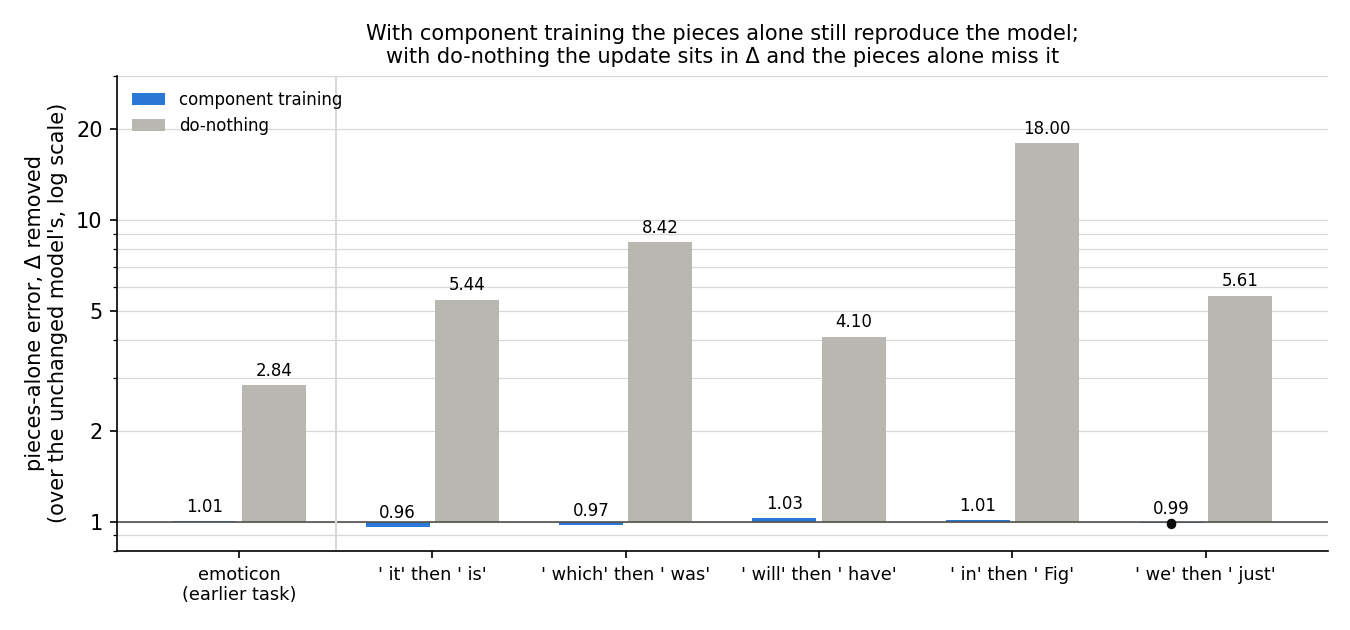
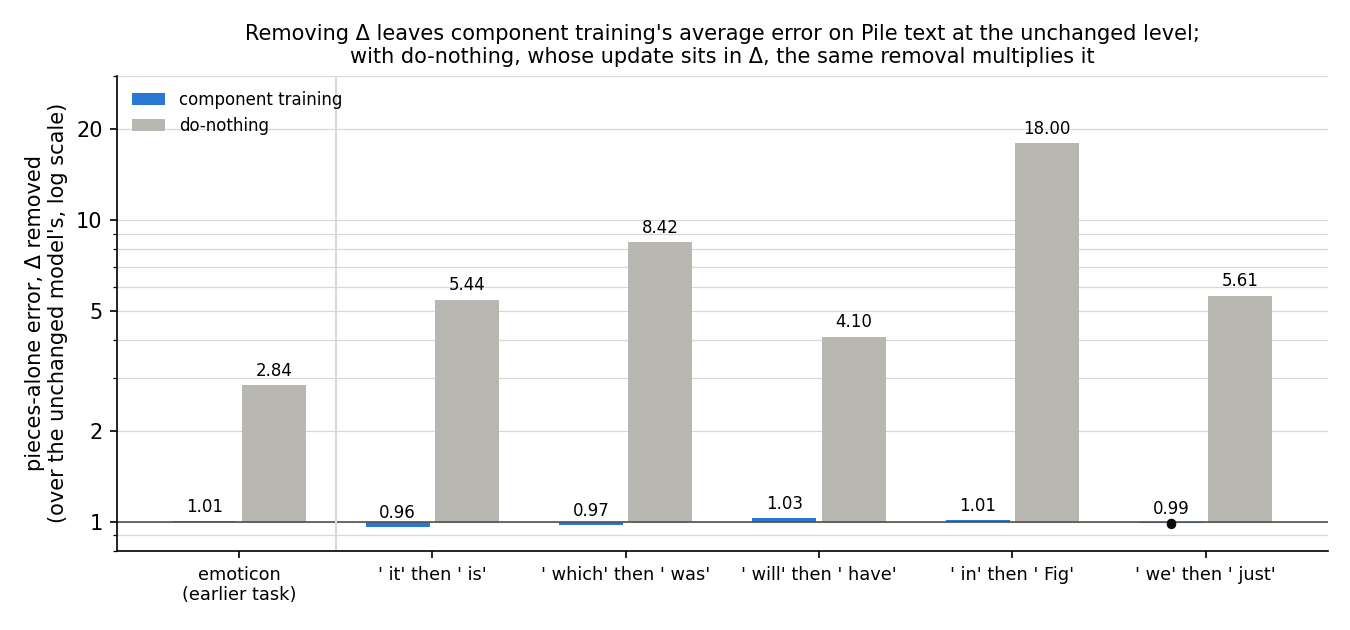
E11 card: final-read fixes

Changed region(s): [[0.1867, 0.0302, 0.9022, 0.1206]]

diff --git a/docs/research_log/parts/experiments/e11.html b/docs/research_log/parts/experiments/e11.html
@@ -1,16 +1,16 @@
 <article class="exp missed" id="e11">
 <div class="top"><span class="id">E11</span><span class="chip refuted">missed</span><h3>Do component training's pieces stay faithful on five more next-word tasks, or only on emoticon?</h3><span class="when">2026-10-19, emoticon rerun 2026-10-20 · RunPod L40S; MATS cluster L40 · <code>experiments/reading_a_coverage</code></span></div>
-<p class="one"><strong>The question.</strong> The pass criterion (Q1) asks for a map that keeps the decomposition as faithful to the updated model as it was to the original, without parking the update in the residual Δ. Component training had passed VPD's adversarial check on emoticon (in an earlier split test, E2) and on one common-word task, " will" then " be" (E5). This run asks whether that pass is general, on the five tasks of E5's task ladder, a set of next-word tasks graded by how likely the target already is, that had never been scored on it.</p>
-<p class="one"><strong>What we did.</strong> Each task teaches the 67M model to raise one next word after a trigger word, such as " is" after " it"; the model already gives the target some probability. <em>Component training</em> trains the pieces' own vectors on the task for 10 Adam steps, with Γ (which switches pieces on) and Δ frozen. <em>Do-nothing</em> runs the ordinary fine-tune for 10 steps and puts its whole weight change in Δ. An adversary searches for the mask over the pieces that does the most damage on ordinary Pile text. The <em>adversarial ratio</em> is that damage over the same damage for the unchanged decomposition, so 1 means as faithful as before. Above 1.5 counts as a fail, the line set in E2. Below about 1.14 is noise: within three times the unchanged model's own run-to-run spread in this job (its <em>floor</em>).</p>
-<p class="one"><strong>What we found.</strong> Component training fails the check on three of the five tasks and sits at the line on a fourth (first figure). The report counts do-nothing as more robust under the adversary on four of the five, but only two of those gaps, on " it" then " is" and " in" then " Fig", are larger than the noise. What component training does buy is that the pieces alone, without Δ, still reproduce the model, where with do-nothing they miss by 4 to 18 times the original error on the new tasks (second figure). The tasks with the largest adversarial ratios mostly had the largest change on words other than the target (third figure).</p>
-<p class="one"><strong>What it means.</strong> "Passes about as well" is not a general property of 10-step Adam component training: counting emoticon and " will" then " be", 3 of 7 tasks hold, 1 sits at the line and 3 fail, and the report reads the earlier passes as the favourable cases. The caveat: each task but one ran at one seed, and the unchanged model's own adversary spread reached 21% in one job. Ratios near 1.5 are therefore undecided. The next design question was to compare at matched off-target change instead of matched steps; a later run at more training steps (E21) found that these verdicts are step-10 readings.</p>
+<p class="one"><strong>The question.</strong> The project's pass criterion (sub-question Q1 of the log) asks for a map that keeps the decomposition as faithful to the updated model as it was to the original, without parking the update in the residual Δ. Component training had passed VPD's adversarial check on emoticon (in experiment E2, an earlier test of ways to place an update) and on one common-word task, " will" then " be" (in experiment E5, the task ladder: next-word tasks graded by how likely the target already is). This run asks whether that pass is general, on the five ladder tasks never scored on this check.</p>
+<p class="one"><strong>What we did.</strong> Each task teaches the 67M model to raise one next word after a trigger word, such as " is" after " it"; the model already gives the target some probability. <em>Component training</em> trains the pieces' own vectors on the task for 10 Adam steps, with Γ (which switches pieces on) and Δ frozen. <em>Do-nothing</em> runs the ordinary fine-tune for 10 steps and puts its whole weight change in Δ. An adversary searches for the mask over the pieces that does the most damage on ordinary Pile text. The <em>adversarial ratio</em> is that damage over the same damage for the unchanged decomposition, so 1 means as faithful as before. Above 1.5 counts as a fail, the line set in experiment E2. Below about 1.14 is noise: within three times the unchanged model's own run-to-run spread in this job (its <em>floor</em>).</p>
+<p class="one"><strong>What we found.</strong> Component training fails the check on three of the five tasks and sits at the line on a fourth (first figure). The report counts do-nothing as more robust under the adversary on four of the five, but only two of those gaps, on " it" then " is" and " in" then " Fig", are larger than the noise. What component training does buy is that the pieces alone, without Δ, match the updated model about as closely on average as they matched the original, where with do-nothing they miss by 4 to 18 times the original error on the new tasks (second figure). The tasks with the largest adversarial ratios mostly had the largest change on words other than the target (third figure).</p>
+<p class="one"><strong>What it means.</strong> "Passes about as well" is not a general property of 10-step Adam component training: counting emoticon and " will" then " be", 3 of 7 tasks hold, 1 sits at the line and 3 fail, and the report reads the earlier passes as the favourable cases. The caveat: each task but one ran at one seed, and the unchanged model's own adversary spread reached 21% in one job. Ratios near 1.5 are therefore undecided. The next design question was to compare at matched off-target change instead of matched steps; a later run at more training steps (experiment E21) found that these verdicts are step-10 readings.</p>
 <figure>
 <img src="fig/e11_log_adversarial.png" alt="Paired bars on a log scale from 1 for six tasks, component training in blue and do-nothing in grey, with a red dashed fail line at 1.5. Emoticon 1.03 and 2.18; ' it' then ' is' 2.73 and 1.58; ' which' then ' was' 2.23 and 2.17; ' will' then ' have' 1.16 and 1.22; ' in' then ' Fig' 6.74 and 2.26; ' we' then ' just' mean 1.49 over three seeds (dots at 1.38, 1.54, 1.55) and 1.24. Dotted lines mark the unchanged model's spread, 1.14 for the five tasks and 1.63 for emoticon's separate job.">
 <figcaption><strong>1. Do the pieces pass the adversarial check on the new tasks?</strong> No, on three of five. Each pair of bars is one task: blue is component training, grey is do-nothing, both after 10 steps, and the bar's height is the adversarial ratio (log scale; 1 means no worse than the unchanged decomposition). Red dashes are the 1.5 fail line; dotted lines are 1 plus three times the unchanged model's run-to-run spread in that job. Emoticon, left, is the earlier task rerun on the same harness in its own job, whose wider spread came from one unusually strong adversary run; there the noise line sits above the fail line. On " we" then " just" the blue bar is the mean of three seeds (dots), which straddle the line; every other bar, do-nothing's included, is one seed. The fine-tune left in Δ breaks the line itself on three of the five new tasks.</figcaption>
 </figure>
 <figure>
 <img src="fig/e11_log_unmasked.png" alt="Paired bars on a log scale from 1 for the same six tasks: component training at 0.96 to 1.03 on every task; do-nothing at 2.84 on emoticon and 4.10 to 18.00 on the five new tasks.">
-<figcaption><strong>2. What does component training buy?</strong> Pieces that carry the update. Each bar is the unmasked ratio: the error of the decomposition with every piece fully on and Δ removed, over the same error for the unchanged decomposition. Blue stays at 1 on every task, so the pieces alone still reproduce the updated model. Grey, with the update in Δ, is 4 to 18 times the original error on the new tasks, because Δ is exactly what is removed. Do-nothing is one seed on every task.</figcaption>
+<figcaption><strong>2. What does component training buy?</strong> Δ can be removed at little cost, on average. Each bar is the unmasked ratio: the error of the decomposition with every piece fully on and Δ removed, over the same error for the unchanged decomposition. Blue stays at 1 on every task, so on this average over Pile text the pieces alone match the updated model as closely as they matched the original; it is not a test of the task behaviour. Grey, with the update in Δ, is 4 to 18 times the original error on the new tasks, because Δ is exactly what is removed. Do-nothing is one seed on every task.</figcaption>
 </figure>
 <figure>
 <img src="fig/e11_log_offtarget.png" alt="Scatter of component training's adversarial ratio (log scale) against its off-target KL in nats: emoticon 0.016 and 1.03; ' will' then ' have' 0.146 and 1.16; ' we' then ' just' three seeds at 0.167 to 0.200 and 1.38 to 1.55; ' it' then ' is' 0.200 and 2.73; ' which' then ' was' 0.232 and 2.23; ' in' then ' Fig' 0.508 and 6.74.">
@@ -19,10 +19,10 @@
 <dl class="fields">
 <dt>Run</dt><dd>Component training and the fine-tune were regenerated at step 10 on the five ladder tasks (one seed each, three on " we" then " just"), checked to match the ladder's own states, and scored on VPD's four Pile checks and its sparsity loss, every number a ratio to the unchanged model with a noise floor measured in the same job. One RunPod L40S job (38 min, $0.70), and an emoticon rerun on the same harness the next day on the MATS cluster (12.5 min, $0).</dd>
 <dt>Found</dt><dd><ul>
-<li>Component training fails the adversarial check on " it" then " is", " which" then " was" and " in" then " Fig", reads 1.38 to 1.55 over three seeds on " we" then " just", and passes on " will" then " have"; the emoticon rerun reproduced E2's pass.</li>
-<li>The milder checks (random masks, importance-weighted masks, all pieces on) and VPD's sparsity loss mostly stay inside their floors, so they cannot see what the adversary finds; the sparsity loss moves by under 1% on Pile text.</li>
-<li>Component training changes predictions away from the trigger 1.8 to 2.5 times as much as the fine-tune at the same step, and its adversarial excess mostly orders with that change: a pattern, not a cause.</li></ul></dd>
+<li>Component training fails the adversarial check on " it" then " is", " which" then " was" and " in" then " Fig", reads 1.38 to 1.55 over three seeds on " we" then " just", and passes on " will" then " have"; the emoticon rerun reproduced the earlier emoticon pass.</li>
+<li>The milder checks (random masks, importance-weighted masks, all pieces on) and VPD's sparsity loss mostly stay inside their floors, so they cannot see what the adversary finds; the sparsity loss moves by under 1% on Pile text (only the all-pieces-on check is plotted, in the second figure; the rest are in the report).</li>
+<li>Component training changes predictions away from the trigger 1.8 to 2.5 times as much as the fine-tune at the same step (not plotted; in the report), and its adversarial excess mostly orders with that change: a pattern, not a cause.</li></ul></dd>
 <dt>Bears on</dt><dd>Q1, Q4, Q6, Q7</dd>
-<dt>Moved on</dt><dd>The count for 10-step Adam component training became 3 of 7 tasks holding, 1 at the line and 3 failing, not sorted by how common the target word is; the next design questions were matched off-target change instead of matched steps, and cancellation across the changed pieces. <a href="#e21">E21</a> then found that at steps 100 and 1,000 the same Adam rate passes " it" then " is" and " which" then " was", so these verdicts are step-10 readings. The all-checks-per-task figure with the sparsity control and the seed-repeat figure were cut from this card and stay in the report and notebook; a 2026-10-20 review (<code>reports/reviews/2026-10-20_review_2026-10-19-write-ups.md</code>) corrected several of the report's counts. Report: <code>reports/analyses/2026-10-19_analysis_reading-a-coverage.md</code>; notebook <code>notebooks/E11_reading_a_coverage.ipynb</code>.</dd>
+<dt>Moved on</dt><dd>The count for 10-step Adam component training became 3 of 7 tasks holding, 1 at the line and 3 failing, not sorted by how common the target word is; the next design questions were matched off-target change instead of matched steps, and cancellation across the changed pieces. The later run at more steps, experiment <a href="#e21">E21</a>, found that at steps 100 and 1,000 the same Adam rate passes " it" then " is" and " which" then " was", so these verdicts are step-10 readings. The all-checks-per-task figure with the sparsity control and the seed-repeat figure were cut from this card and stay in the report and notebook; a 2026-10-20 review (<code>reports/reviews/2026-10-20_review_2026-10-19-write-ups.md</code>) corrected several of the report's counts. Report: <code>reports/analyses/2026-10-19_analysis_reading-a-coverage.md</code>; notebook <code>notebooks/E11_reading_a_coverage.ipynb</code>.</dd>
 </dl>
 </article>

diff --git a/experiments/reading_a_coverage/plot_log.py b/experiments/reading_a_coverage/plot_log.py
@@ -106,8 +106,8 @@ def fig_unmasked(data: dict[str, tuple[dict[str, Any], dict[str, Any]]]) -> None
     ax.set_ylim(0.8, 30)
     ax.set_yticks([1, 2, 5, 10, 20], ["1", "2", "5", "10", "20"])
     ax.set_ylabel("pieces-alone error, Δ removed\n(over the unchanged model's, log scale)")
-    ax.set_title("With component training the pieces alone still reproduce the model;\n"
-                 "with do-nothing the update sits in Δ and the pieces alone miss it", fontsize=10)
+    ax.set_title("Removing Δ leaves component training's average error on Pile text at the unchanged level;\n"
+                 "with do-nothing, whose update sits in Δ, the same removal multiplies it", fontsize=10)
     ax.legend(frameon=False, fontsize=8, loc="upper left")
     save(fig, "log_unmasked.png")
 
